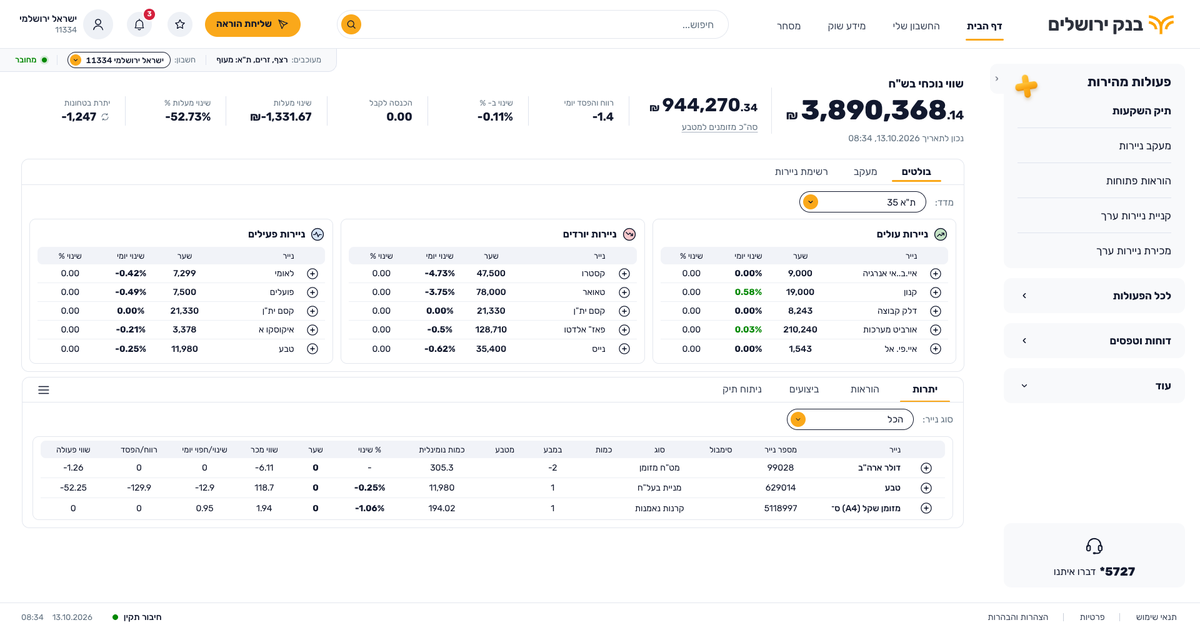
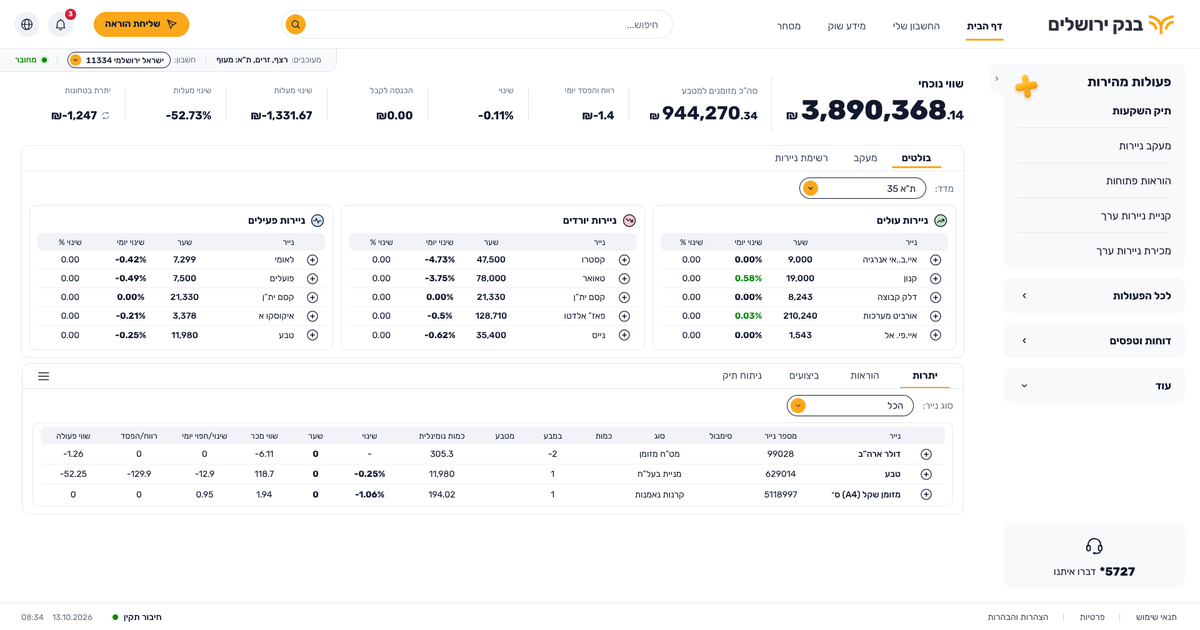
Update site: KPI layout, header, labels, og-image

diff --git a/index.html b/index.html
@@ -111,6 +111,7 @@
 <symbol id="i-bell" viewBox="0 0 24 24"><g fill="none" stroke="currentColor" stroke-linecap="round" stroke-linejoin="round" style="stroke-width:var(--ic-sw,1.5)"><path d="M6 10.9a6 6 0 0 1 12 0v4.4c0 .9.35 1.75 1 2.4l.5.5h-15l.5-.5c.65-.65 1-1.5 1-2.4z"/><path d="M10 20.6c.45.55 1.15.9 2 .9s1.55-.35 2-.9"/><path d="M12 3.2v1.7"/></g></symbol>
 <symbol id="i-user" viewBox="0 0 24 24"><g fill="none" stroke="currentColor" stroke-linecap="round" stroke-linejoin="round" style="stroke-width:var(--ic-sw,1.5)"><circle cx="12" cy="8.2" r="4.2"/><path d="M4.6 20.5c.75-3.9 3.75-6.1 7.4-6.1s6.65 2.2 7.4 6.1"/></g></symbol>
 <symbol id="i-logout" viewBox="0 0 24 24"><g fill="none" stroke="currentColor" stroke-linecap="round" stroke-linejoin="round" style="stroke-width:var(--ic-sw,1.5)"><path d="M13.5 4h4.5a1.5 1.5 0 0 1 1.5 1.5v13A1.5 1.5 0 0 1 18 20h-4.5"/><path d="M15 12H4.5M8.2 8.2 4.5 12l3.7 3.8"/></g></symbol>
+<symbol id="i-globe" viewBox="0 0 24 24"><g fill="none" stroke="currentColor" stroke-width="1.5" stroke-linecap="round" stroke-linejoin="round"><circle cx="12" cy="12" r="9"/><ellipse cx="12" cy="12" rx="4" ry="9"/><path d="M3 12h18"/></g></symbol>
 <symbol id="i-menu" viewBox="0 0 24 24"><g fill="none" stroke="currentColor" stroke-linecap="round" stroke-linejoin="round" style="stroke-width:var(--ic-sw,1.5)"><path d="M4 6.5h16M4 12h16M4 17.5h16"/></g></symbol>
 <symbol id="i-close" viewBox="0 0 24 24"><g fill="none" stroke="currentColor" stroke-linecap="round" stroke-linejoin="round" style="stroke-width:var(--ic-sw,1.5)"><path d="M6 6l12 12M18 6 6 18"/></g></symbol>
 <symbol id="i-plus" viewBox="0 0 24 24"><g fill="none" stroke="currentColor" stroke-linecap="round" stroke-linejoin="round" style="stroke-width:var(--ic-sw,1.5)"><path d="M12 5v14M5 12h14"/></g></symbol>
@@ -358,8 +359,8 @@
         <svg class="ic ic-send" width="20" height="20" viewBox="0 0 24 24" aria-hidden="true" focusable="false"><use href="#i-send"/></svg>
         <span class="hd-send-t">שליחת הוראה</span>
       </button>
-      <button class="hd-icon-btn hd-star" aria-label="מועדפים">
-        <svg class="ic ic-star" width="24" height="24" viewBox="0 0 24 24" aria-hidden="true" focusable="false"><use href="#i-star"/></svg>
+      <button class="hd-icon-btn hd-star hd-lang" type="button" aria-label="שינוי שפה" title="שינוי שפה">
+        <svg class="ic ic-globe" width="24" height="24" viewBox="0 0 24 24" aria-hidden="true" focusable="false"><use href="#i-globe"/></svg>
       </button>
       <button class="hd-icon-btn hd-bell" aria-label="התראות">
         <svg class="ic ic-bell" width="24" height="24" viewBox="0 0 24 24" aria-hidden="true" focusable="false"><use href="#i-bell"/></svg>
@@ -628,9 +629,8 @@
         <div class="ov-cards">
           <div class="ov-card ov-c-blue">
             <span class="ov-ico"><svg class="ic ic-line" width="18" height="18" viewBox="0 0 24 24" aria-hidden="true" focusable="false"><use href="#i-line"/></svg></span>
-            <div class="ov-lbl">שווי נוכחי בש"ח</div>
+            <div class="ov-lbl">שווי נוכחי</div>
             <span class="ov-val"><span class="ov-cur">₪</span>3,890,368<span class="ov-dec">.14</span></span>
-            <div class="ov-date">נכון לתאריך 13.10.2026, 08:34</div>
             <svg class="ov-deco ov-wave" viewBox="0 0 220 70" preserveAspectRatio="none" aria-hidden="true">
               <defs>
                 <linearGradient id="ovl1" x1="0" x2="1" y1="0" y2="0">
@@ -716,7 +716,7 @@
           </div>
           <div class="ov-card ov-c-red">
             <span class="ov-ico"><svg class="ic ic-trade" width="18" height="18" viewBox="0 0 24 24" aria-hidden="true" focusable="false"><use href="#i-trade"/></svg></span>
-            <div class="ov-lbl">שינוי ב- %</div>
+            <div class="ov-lbl">שינוי</div>
             <span class="ov-val"><span class="ov-red">-0.11%</span></span>
             <svg class="ov-deco ov-wave" viewBox="0 0 220 70" preserveAspectRatio="none" aria-hidden="true">
               <defs>
@@ -761,7 +761,7 @@
           <div class="ov-card ov-c-gr">
             <span class="ov-ico"><svg class="ic ic-line" width="18" height="18" viewBox="0 0 24 24" aria-hidden="true" focusable="false"><use href="#i-line"/></svg></span>
             <div class="ov-lbl">רווח והפסד יומי</div>
-            <span class="ov-val"><span class="ov-red">-1.4</span></span>
+            <span class="ov-val"><span class="ov-cur">₪</span><span class="ov-red">-1.4</span></span>
             <svg class="ov-deco ov-wave" viewBox="0 0 220 70" preserveAspectRatio="none" aria-hidden="true">
               <defs>
                 <linearGradient id="ovl4" x1="0" x2="1" y1="0" y2="0">
@@ -882,9 +882,9 @@
                 pathLength="100" fill="none" stroke="#fff" stroke-width="1.4" opacity=".6" stroke-linecap="round" />
             </svg>
           </div>
-          <div class="ov-card ov-x ov-x1"><div class="ov-lbl">הכנסה לקבל</div><span class="ov-val">0.00</span></div>
-          <div class="ov-card ov-x ov-x2"><div class="ov-lbl">שינוי מעלות %</div><span class="ov-val"><span class="ov-red">-52.73%</span></span></div>
-          <div class="ov-card ov-x ov-x3"><div class="ov-lbl">יתרת בטחונות</div><span class="ov-val"><span class="ov-red">-1,247</span><svg class="ic ov-rf" width="16" height="16" viewBox="0 0 24 24" aria-hidden="true" focusable="false"><use href="#i-refresh"/></svg></span></div>
+          <div class="ov-card ov-x ov-x1"><div class="ov-lbl">הכנסה לקבל</div><span class="ov-val"><span class="ov-cur">₪</span>0.00</span></div>
+          <div class="ov-card ov-x ov-x2"><div class="ov-lbl">שינוי מעלות</div><span class="ov-val"><span class="ov-red">-52.73%</span></span></div>
+          <div class="ov-card ov-x ov-x3"><div class="ov-lbl">יתרת בטחונות</div><span class="ov-val"><span class="ov-cur">₪</span><span class="ov-red">-1,247</span><svg class="ic ov-rf" width="16" height="16" viewBox="0 0 24 24" aria-hidden="true" focusable="false"><use href="#i-refresh"/></svg></span></div>
         </div>
       </section>
 
@@ -1551,7 +1551,7 @@
                 <th>במבע</th>
                 <th>מטבע</th>
                 <th>כמות נומינלית</th>
-                <th class="hl-or">% שינוי</th>
+                <th class="hl-or">שינוי</th>
                 <th>שער</th>
                 <th>שווי מכר</th>
                 <th>שינוי/חפוי יומי</th>
@@ -5385,7 +5385,7 @@
         dr.querySelector('.dk-dr-t').textContent = name ? name.textContent.trim() : '';
         var price = cells[t.classList.contains('hl-grid') ? 11 : 2];
         dr.querySelector('.dk-dr-v').textContent = price ? price.textContent.trim() : '';
-        dr.querySelector('.dk-dr-s').textContent = (pt ? pt.textContent.trim() + ' · ' : '') + 'נכון לתאריך 13.10.2026, 08:34';
+        dr.querySelector('.dk-dr-s').textContent = (pt ? pt.textContent.trim() : '');
         var dl = dr.querySelector('.dk-dr-list'); dl.innerHTML = '';
         cells.forEach(function (td) {
           var l = td.getAttribute('data-label'), v = td.textContent.trim();
@@ -5762,6 +5762,33 @@
   @media (min-width:901px) {
     html body .app>header.hd { position: sticky !important; top: 0; z-index: 60; background: #fff }
     html body .ir { position: fixed !important; top: 78px !important; left: 0; z-index: 59; background: #f8f9fb }
+  }
+</style>
+<style id="kpi-cur">
+  /* shekel sign in the small KPI cells: same look everywhere (attached, same size) */
+  @media (min-width:901px) {
+    html body .ov .ov-cards > .ov-card.ov-x .ov-cur { margin: 0 !important; font-size: 18px !important; font-weight: 700 !important }
+  }
+</style>
+<style id="labels-below">
+  /* desktop: labels above numbers; the 7 small labels share one top line, all numbers share the headline baseline */
+  @media (min-width:901px) {
+    html body .ov .ov-cards > .ov-card:is(:nth-child(3), :nth-child(4), :nth-child(5), :nth-child(6), .ov-x) { display: flex !important; flex-direction: column !important; justify-content: space-between !important; align-self: stretch !important; margin-bottom: 0 !important }
+    html body .ov .ov-cards > .ov-card:is(:nth-child(3), :nth-child(4), :nth-child(5), :nth-child(6), .ov-x) .ov-lbl { order: 0 !important; margin: 0 !important; text-decoration: none !important }
+    html body .ov .ov-cards > .ov-card:is(:nth-child(3), :nth-child(4), :nth-child(5), :nth-child(6), .ov-x) .ov-val { order: 1 !important; margin: 0 !important }
+    html body .ov .ov-cards > .ov-card:nth-child(6) { padding-top: 0 !important; padding-bottom: 5px !important }
+  }
+  @media (min-width:1860px) {
+    html body .ov .ov-cards > .ov-card:is(:nth-child(3), :nth-child(4), :nth-child(5), .ov-x) { padding-top: 14px !important; padding-bottom: 13px !important }
+    html body .ov .ov-cards > .ov-card:nth-child(6) { padding-top: 14px !important }
+    html body .ov .ov-cards > .ov-card:is(:nth-child(3), :nth-child(4), :nth-child(5), .ov-x) { border-right: 0 !important; background: linear-gradient(#dfe3ee, #dfe3ee) no-repeat right 50% / 1px 52px !important }
+  }
+</style>
+<style id="hd-trim">
+  /* desktop header: no avatar / user name block */
+  @media (min-width:901px) {
+    html body .hd .hd-avatar, html body .hd .hd-user { display: none !important }
+    html body .hd .hd-lang { order: 99 !important }
   }
 </style>
 </body>
